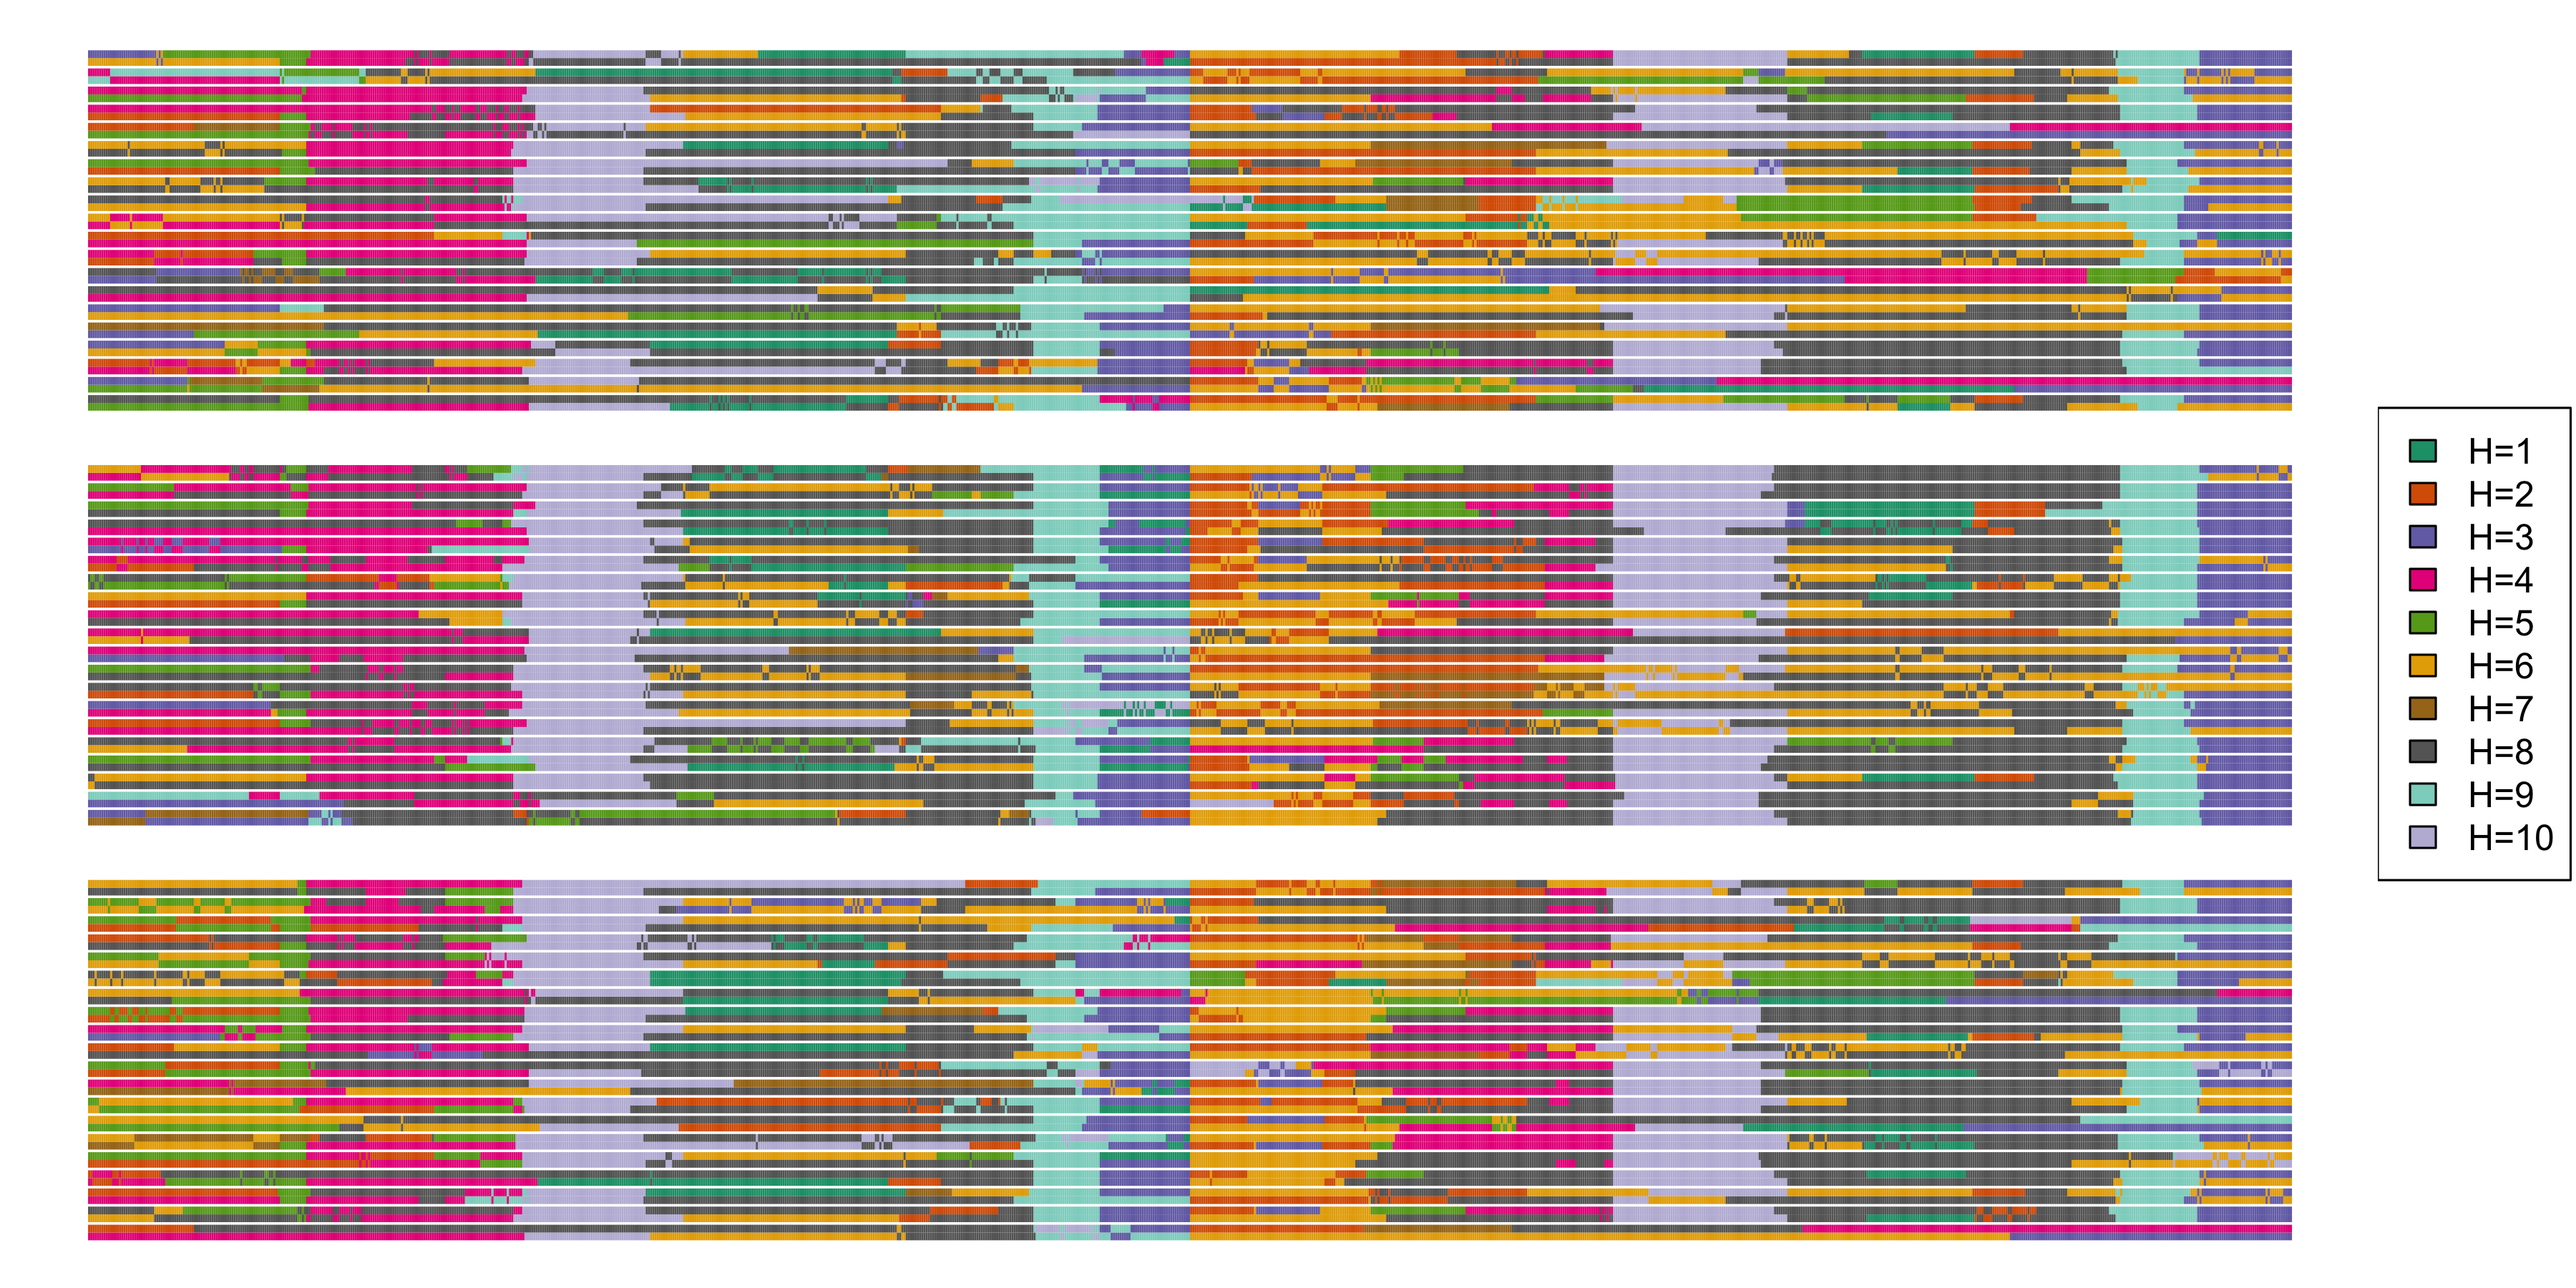
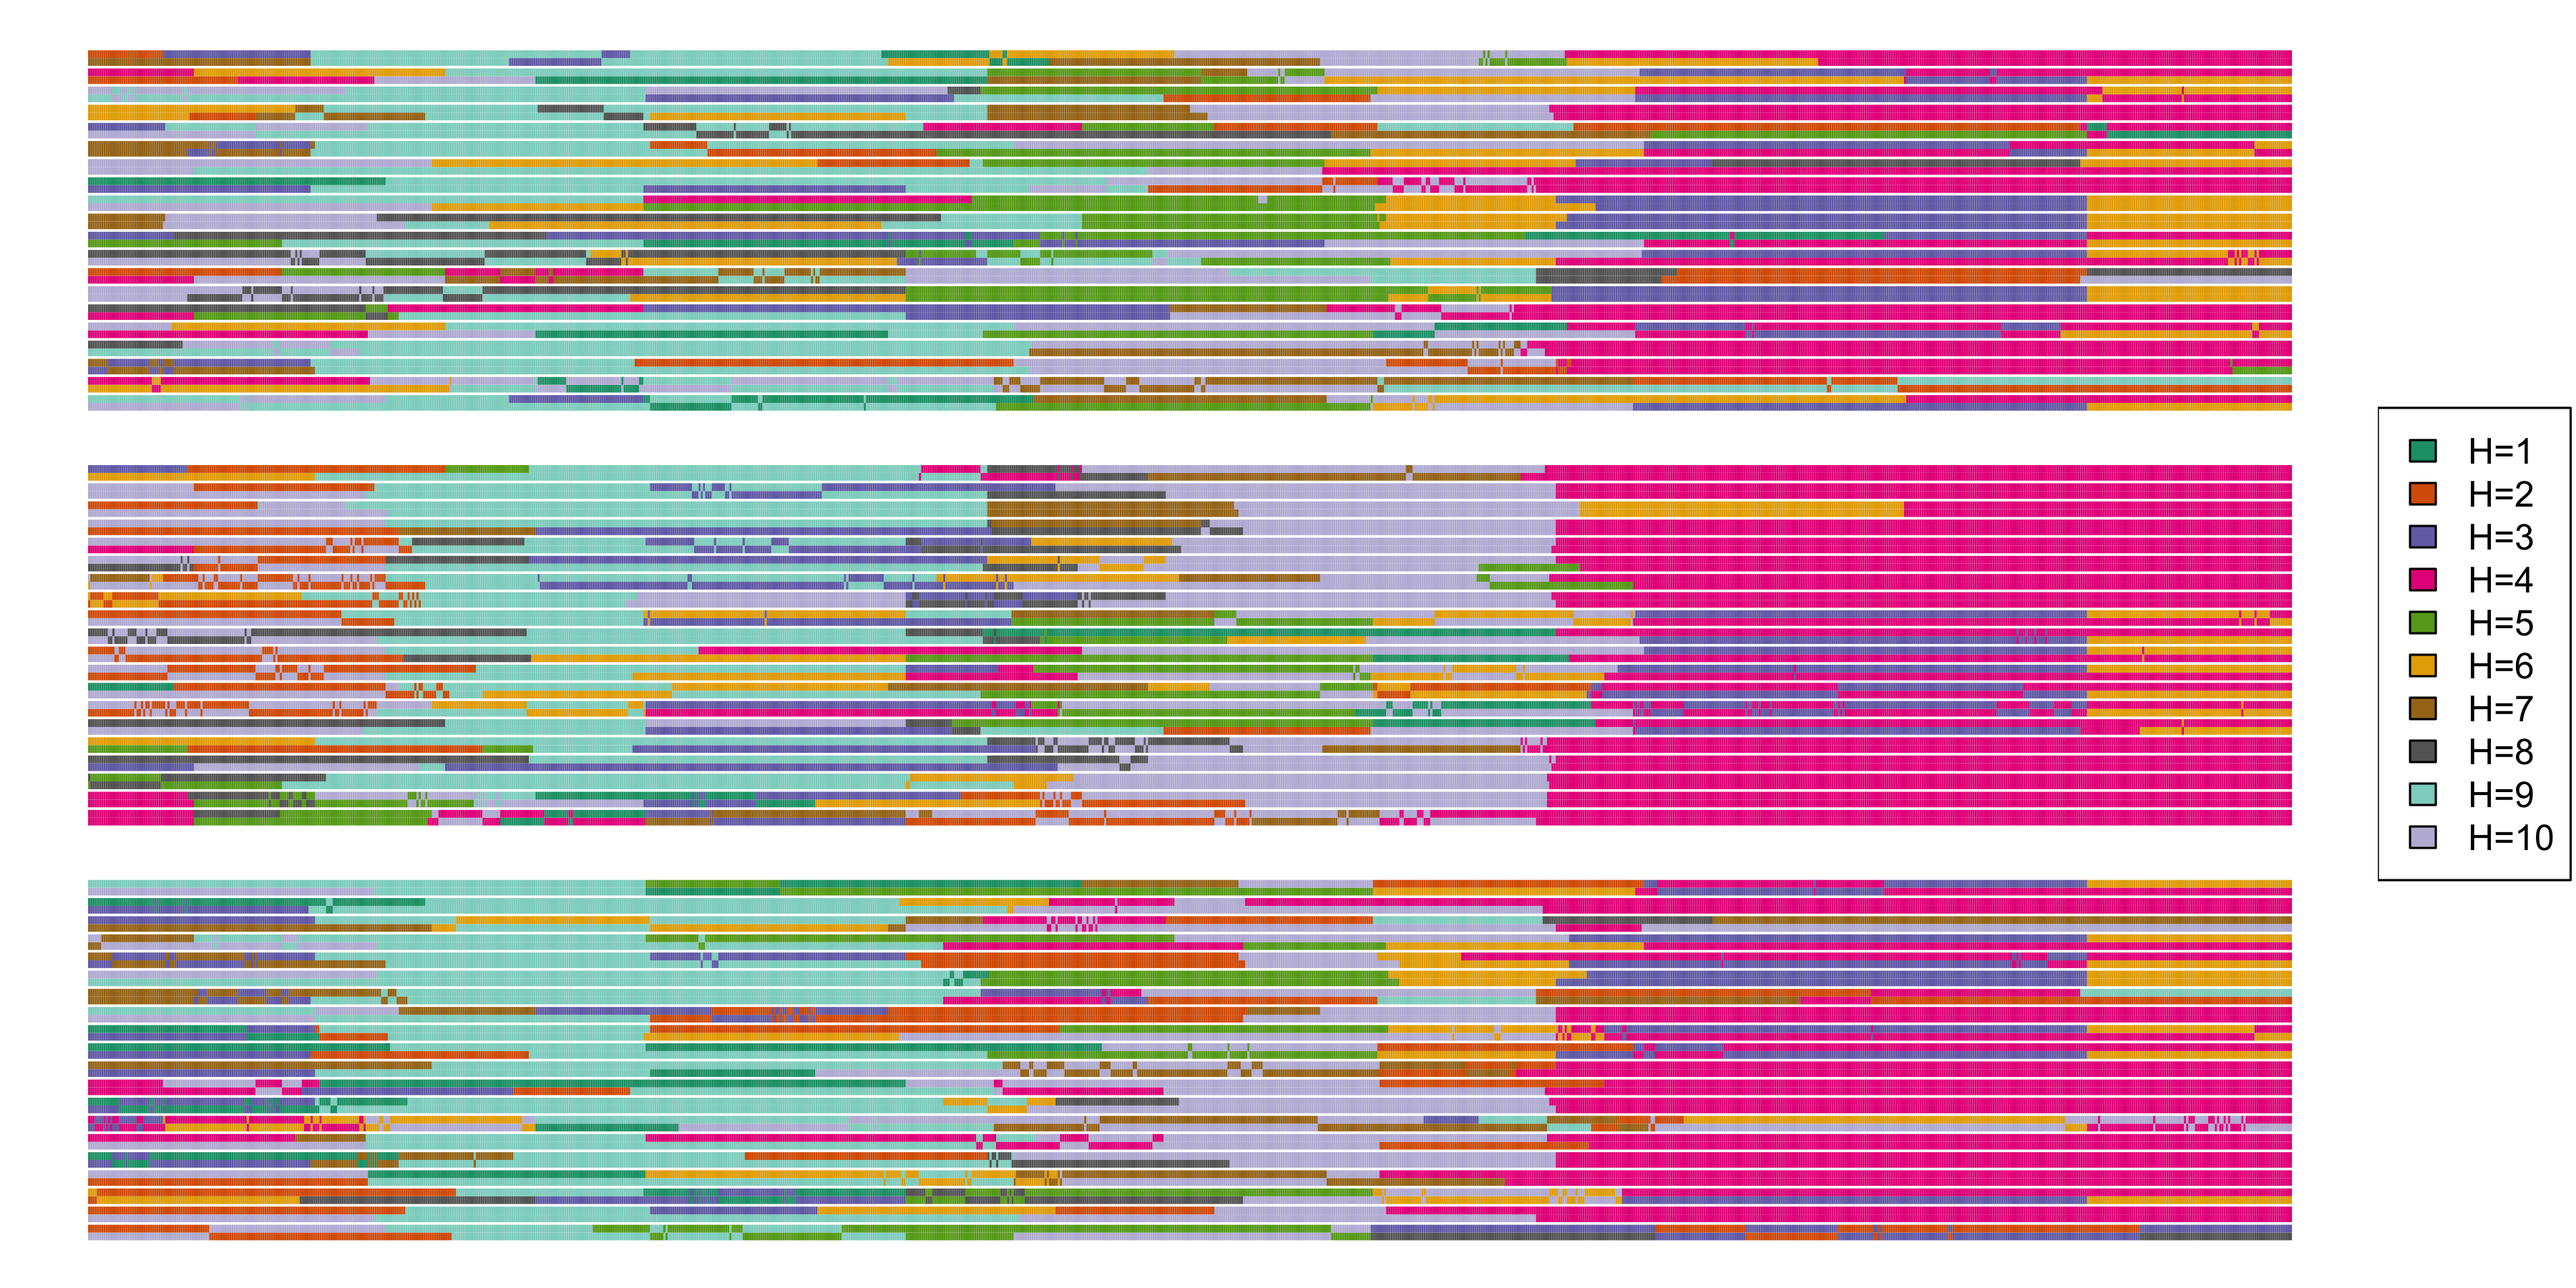
add -e option

diff --git a/src/phaseless.cpp b/src/phaseless.cpp
@@ -300,24 +300,28 @@ int main(int argc, char * argv[])
         genome = std::make_unique<BigAss>(alpaca::deserialize<OPTIONS, BigAss>(ifs, filesize, ec));
         ifs.close();
         assert((bool)ec == false);
-        MyArr2D alpha, beta;
-        // haplike is p(X_is | Z_is, \theta) = alpha * beta
+        const int ic = opts.ichunk;
+        if(ic >= genome->nchunks)
+        {
+            cao.error("the chunk to extract", ic, "(0-baded) is not less than total chunks",
+                      genome->nchunks);
+            return 1;
+        }
+        const int iM = genome->pos[ic].size();
         std::ofstream ofs(opts.out.string() + "haplike.bin", std::ios::binary);
         ofs.write((char *)&genome->C, 4);
         ofs.write((char *)&genome->nsamples, 4);
-        ofs.write((char *)&genome->nsnps, 4);
+        ofs.write((char *)&iM, 4);
+        // haplike is p(X_is | Z_is, \theta) = alpha * beta
+        MyArr2D alpha, beta;
         for(int ind = 0; ind < genome->nsamples; ind++)
         {
-            for(int ic = 0; ic < genome->nchunks; ic++)
-            {
-                int iM = genome->pos[ic].size();
-                alpha.setZero(genome->C * genome->C, iM);
-                beta.setZero(genome->C * genome->C, iM);
-                getClusterLikelihoods(ind, alpha, beta, genome->gls[ic], genome->transRate[ic],
-                                      genome->PI[ic], genome->F[ic], false);
-                alpha *= beta;
-                ofs.write((char *)alpha.data(), genome->C * genome->C * iM * 4);
-            }
+            alpha.setZero(genome->C * genome->C, iM);
+            beta.setZero(genome->C * genome->C, iM);
+            getClusterLikelihoods(ind, alpha, beta, genome->gls[ic], genome->transRate[ic], genome->PI[ic],
+                                  genome->F[ic], false);
+            alpha *= beta;
+            ofs.write((char *)alpha.data(), genome->C * genome->C * iM * 4);
         }
         return 0;
     }

diff --git a/src/cli.hpp b/src/cli.hpp
@@ -6,7 +6,7 @@
 
 struct Options
 {
-    int chunksize{10000}, K{2}, C{10}, nadmix{1000}, nimpute{40}, nthreads{1}, seed{999};
+    int ichunk{0}, chunksize{10000}, K{2}, C{10}, nadmix{1000}, nimpute{40}, nthreads{1}, seed{999};
     double qtol{1e-6}, info{0};
     bool noaccel{0}, noscreen{0}, run_impute{0}, run_admix{0}, run_pars{0}, single_chunk{0};
     std::filesystem::path out, in_beagle, in_vcf, in_bin;
@@ -110,6 +110,10 @@ inline auto parsecli(int argc, char * argv[])
     pars_command.add_argument("-b", "--bin")
         .help("binary format from impute command as input")
         .default_value(std::string{""});
+    pars_command.add_argument("-e", "--chunk")
+        .help("which chunk to extract, 0-based")
+        .default_value(0)
+        .scan<'i', int>();
     pars_command.add_argument("-o", "--out")
         .help("output prefix")
         .default_value(std::string{"parse."});
@@ -169,6 +173,7 @@ inline auto parsecli(int argc, char * argv[])
             opts.run_pars = true;
             opts.in_bin.assign(pars_command.get("--bin"));
             opts.out.assign(pars_command.get("--out"));
+            opts.ichunk = pars_command.get<int>("--chunk");
             if(opts.in_bin.empty())
             {
                 std::cerr << pars_command.help().str();
